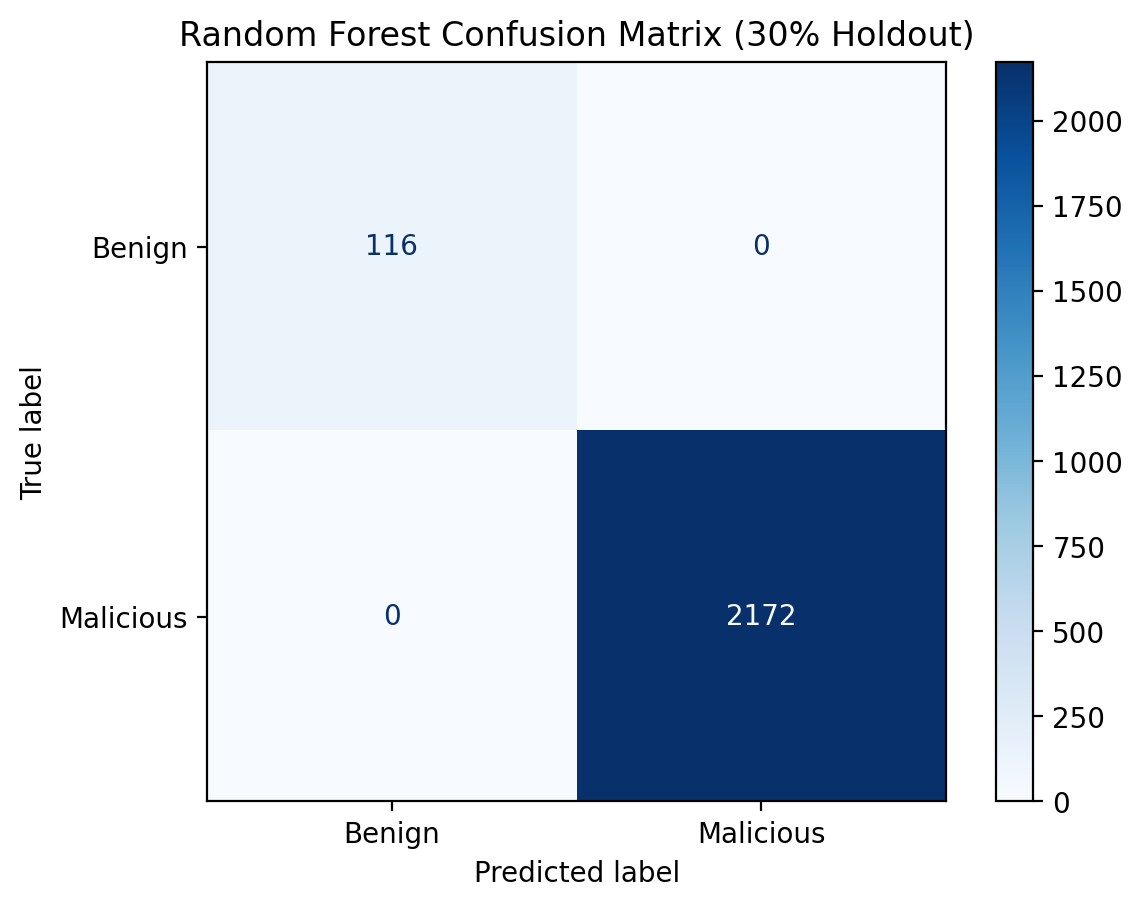
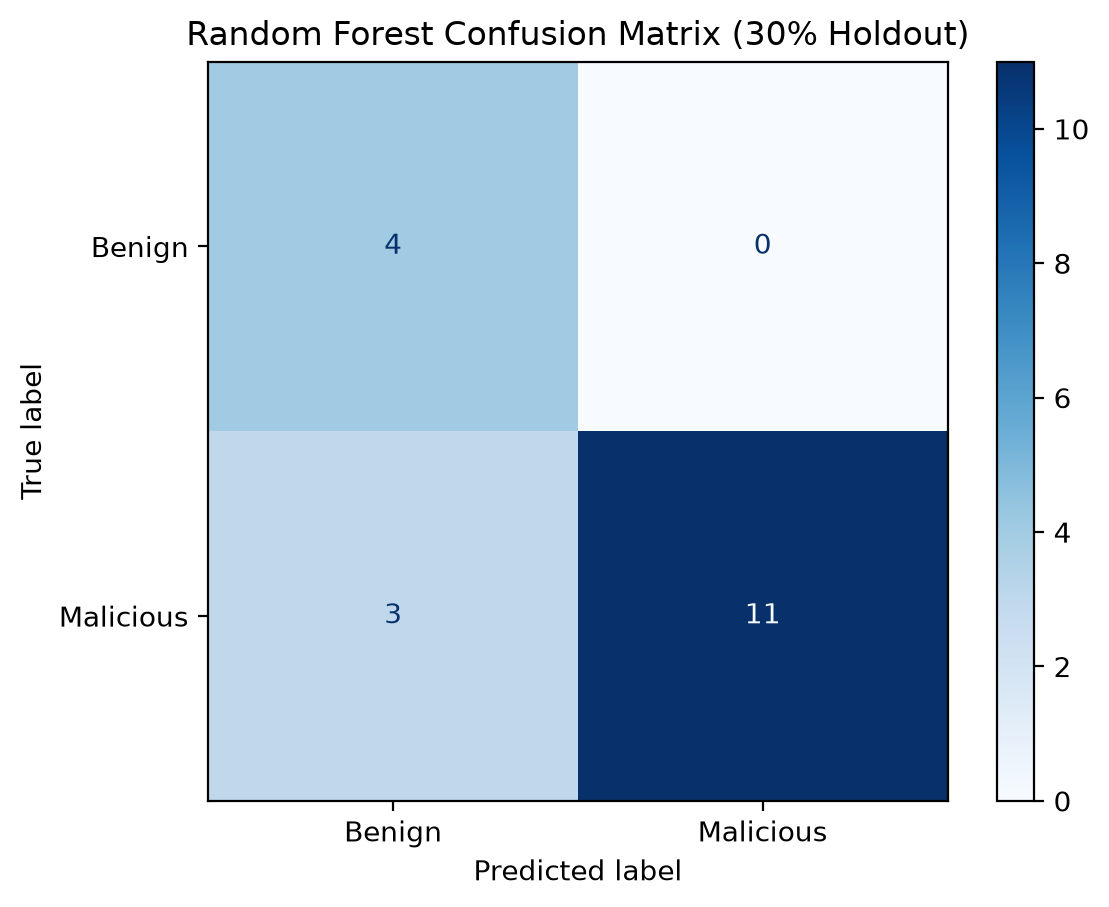
Add new datasets and update training scripts to use windowed flows

diff --git a/src/train_rf_model.py b/src/train_rf_model.py
@@ -62,7 +62,7 @@ def load_and_clean_data(csv_path):
 
 def train_and_evaluate():
     # Point this at your actual generated dataset, not the public CICDDoS2019 sample
-    csv_path = './data/processed/cleaned_narrow_flows.csv'
+    csv_path = './data/processed/windowed_flows_labeled.csv'
 
     X, y = load_and_clean_data(csv_path)
     print(f"Rows: {X.shape[0]} | Benign: {(y == 0).sum()} | Malicious: {(y == 1).sum()}")

diff --git a/src/train_svm_model.py b/src/train_svm_model.py
@@ -47,7 +47,7 @@ def load_and_clean_data(csv_path):
 
 
 def train_and_evaluate_svm():
-    csv_path = './data/processed/cleaned_narrow_flows.csv'
+    csv_path = './data/processed/windowed_flows_labeled.csv'
 
     X, y = load_and_clean_data(csv_path)
     print(f"Rows: {X.shape[0]} | Benign: {(y == 0).sum()} | Malicious: {(y == 1).sum()}")
